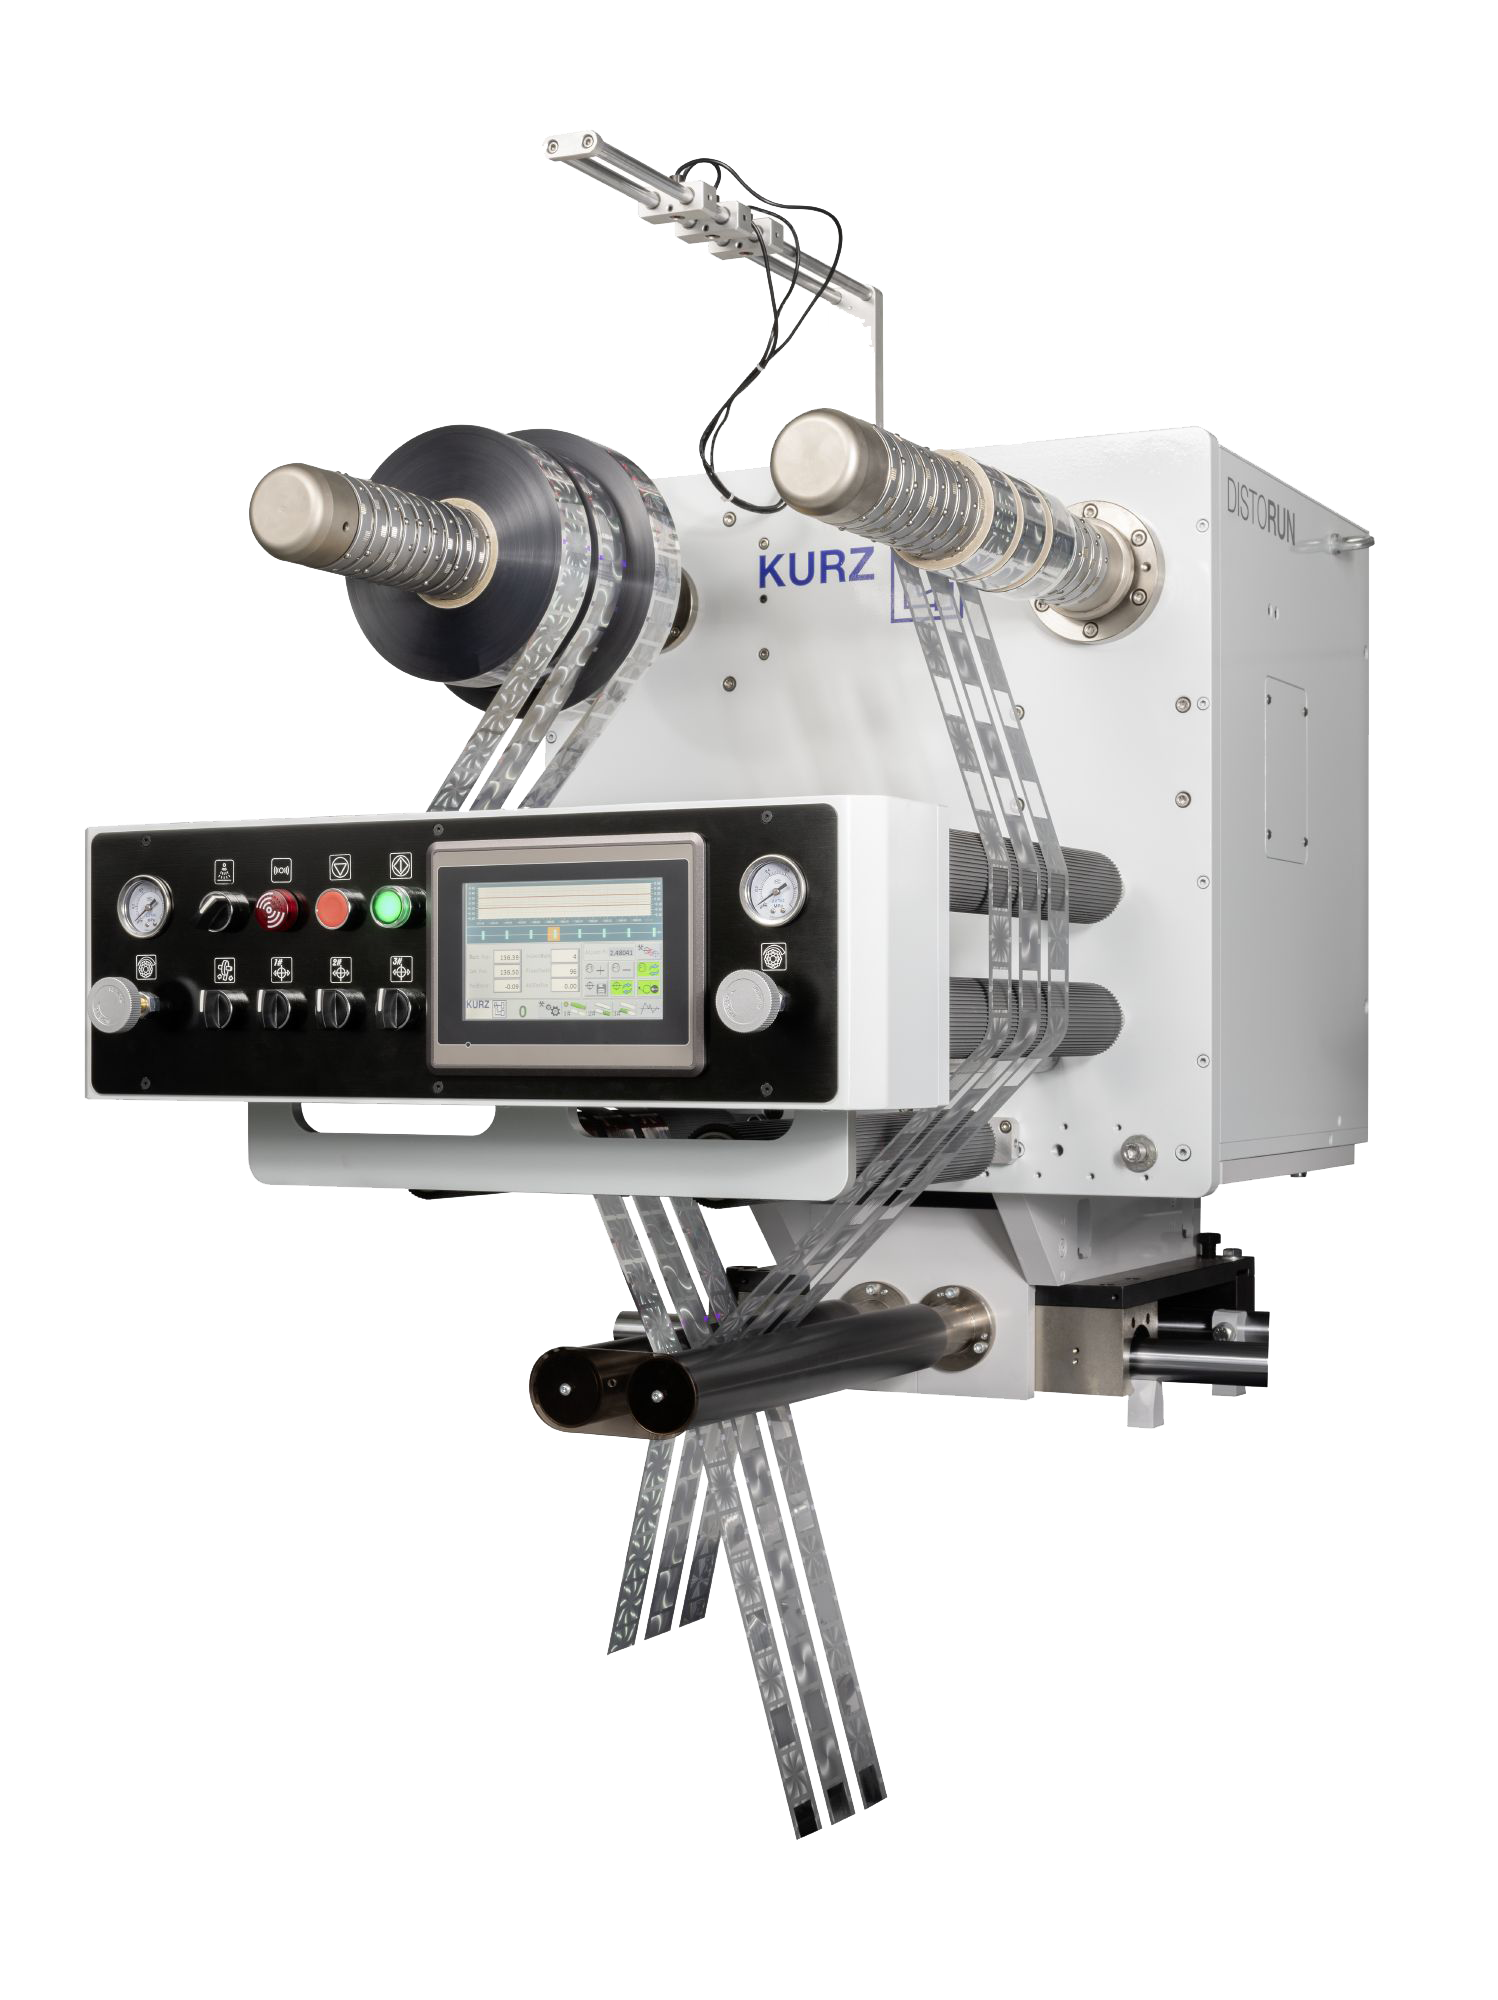
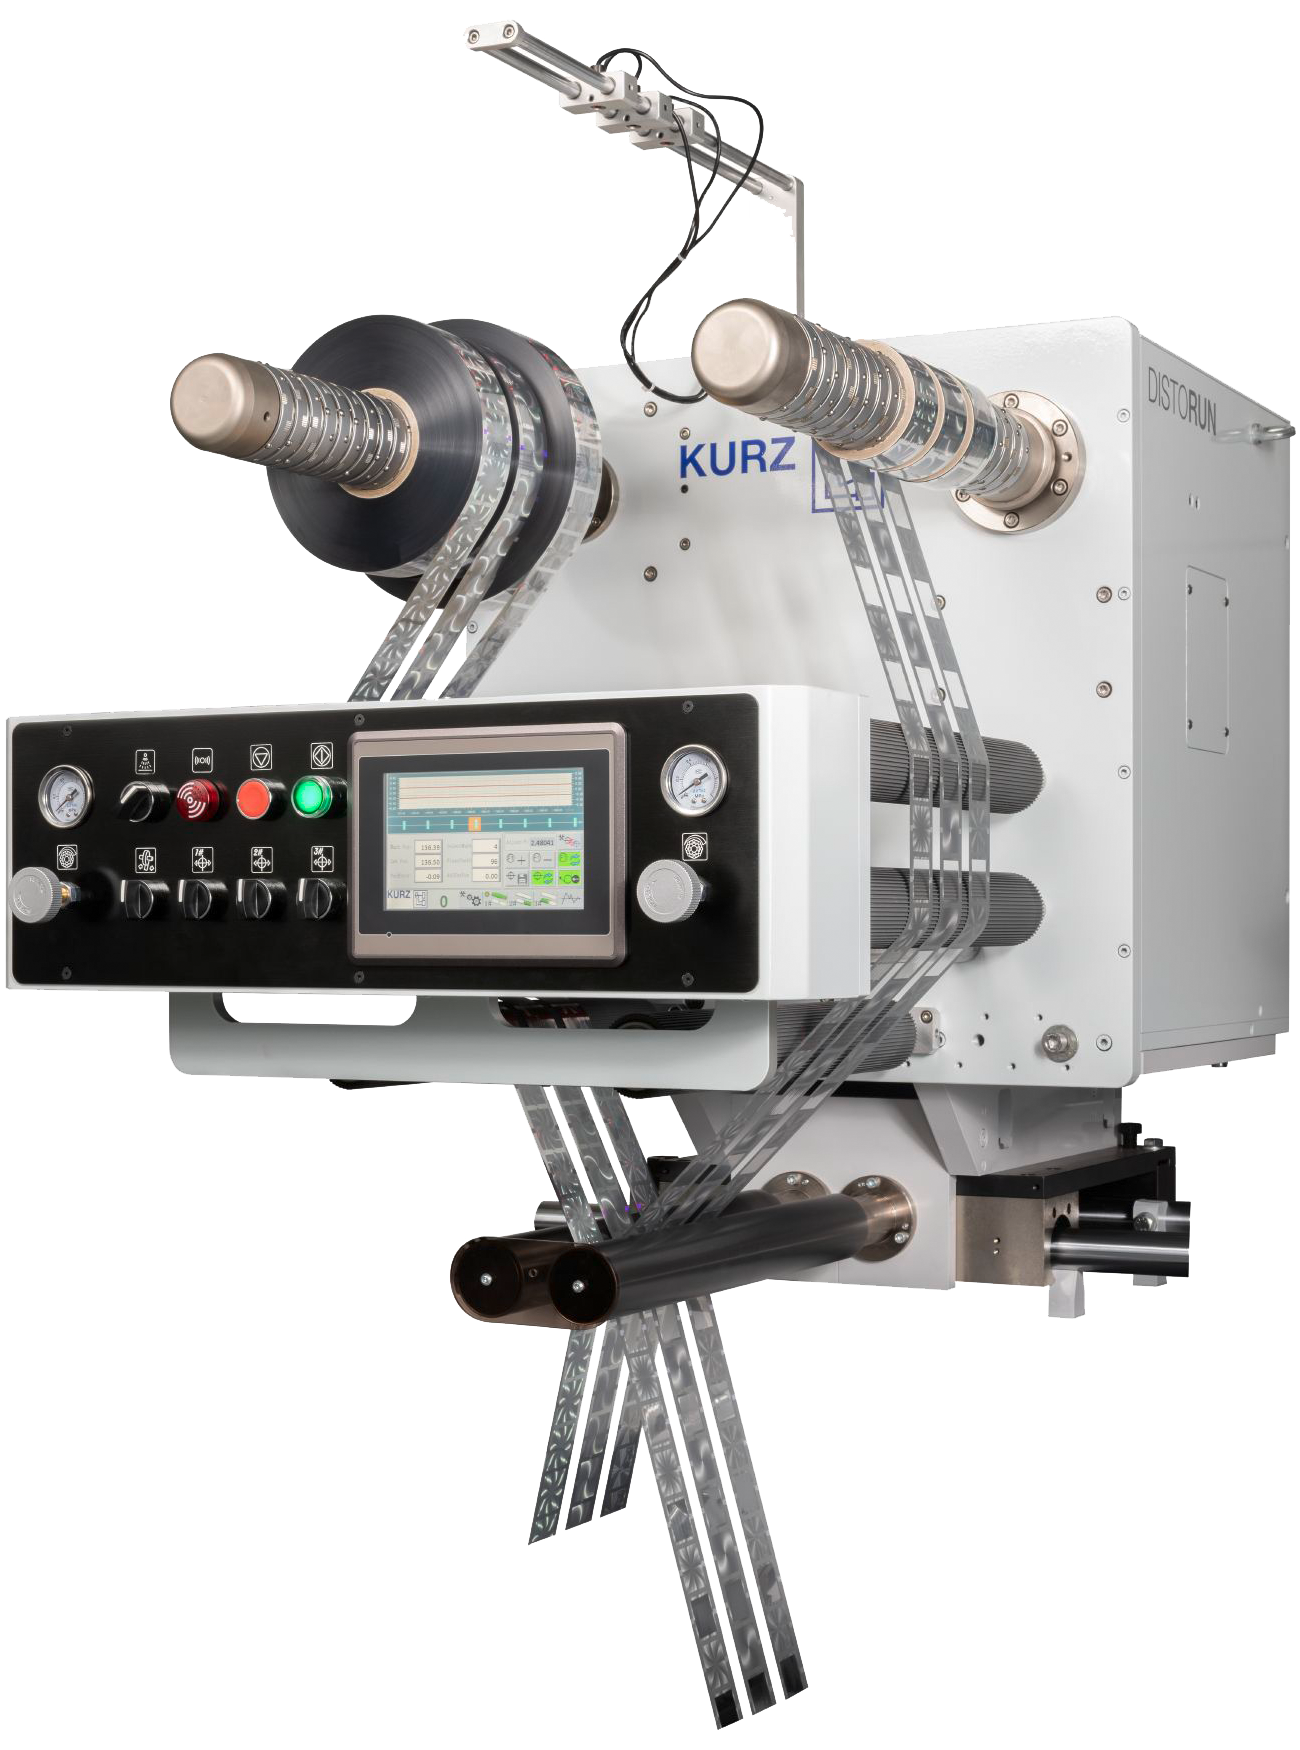
Cft Content Rearrg.

diff --git a/cftransfer.html b/cftransfer.html
@@ -172,8 +172,9 @@
 		<div class="row">
 		<div class="col-md-4">
 		  <div class="portfolio-caption">
+		  <br>
             <h4 class="text-uppercase">Application Machines</h4>
-            <p>DISTORUN® – New, independent machine module for labeling machines.</p>
+            <p>DISTORUN® – Independent module for labeling machines.</p>
 			<p class="text-muted">DISTORUN® is a unique module for the processing of single images and endless decors in cold foiling transfer.
 			Cold foil single images can be accurately positioned. The section between two images can now be used for efficient foil usage.</p>
 			<br>
@@ -181,29 +182,30 @@
 			DISTORUN® operates separately and is not affected by the controls of the printing press. </p>
           </div>
 		  </div>
-		  <div class="col-md-8 portfolio-item no-padding">
-          <img class="img-fluid" src="img/cft/Distorun_097.jpg" alt="">
+		  <div class="col-md-1">
+		  </div>
+		  <div class="col-md-5 portfolio-item">
+          <img class="img-fluid" src="img/cft/Distorun_031.png" alt="">
         </div>
 		  </div>
 		
-		
-		
+		<br>
+		<br>
 		<div class="row">
-		<div class="col-md-6 portfolio-item no-padding">  
-			<img class="img-fluid" src="img/cft/Distorun_031.png" alt="">
+		<div class="col-md-8 portfolio-item">  
+			<img class="img-fluid" src="img/cft/Distorun_097.jpg" alt="">
         </div>  
-		<div class="col-md-6 portfolio-item">  
-		<br>
-		<br>
+		<div class="col-md-4 portfolio-item">  
 			<h4 class="text-uppercase">Lorem ipsum</h4>
             <p>Lorem ipsum dolor sit amet, consectetur adipiscing elit.</p>
 			<p class="text-muted">Lorem ipsum dolor sit amet, consectetur adipiscing elit. In sit amet elementum neque, in blandit enim. </p>
 		</div>
+		</div>
 		
-		
+		<br>
+		<br>
 		<div class="row">
 		<div class="col-md-4 portfolio-item">  
-			<br>
 			<h4>General Features</h4>
             <ul>
 			<li>Processing of cold foil single images and endless decors.</li>
@@ -214,10 +216,12 @@
 			<li>Foil can be reused and remain true to register.</li>
 			<li>Available in 330 mm, 420 mm and 520 mm, with one, two and three foil stripes.</li>
 			</ul>
-        </div>  
+        </div> 
 		<div class="col-md-8 portfolio-item">
 			<img class="img-fluid" src="img/cft/Distorun_114.png" alt="">
 		</div>
+		</div>
+		
 		
 		
 		
